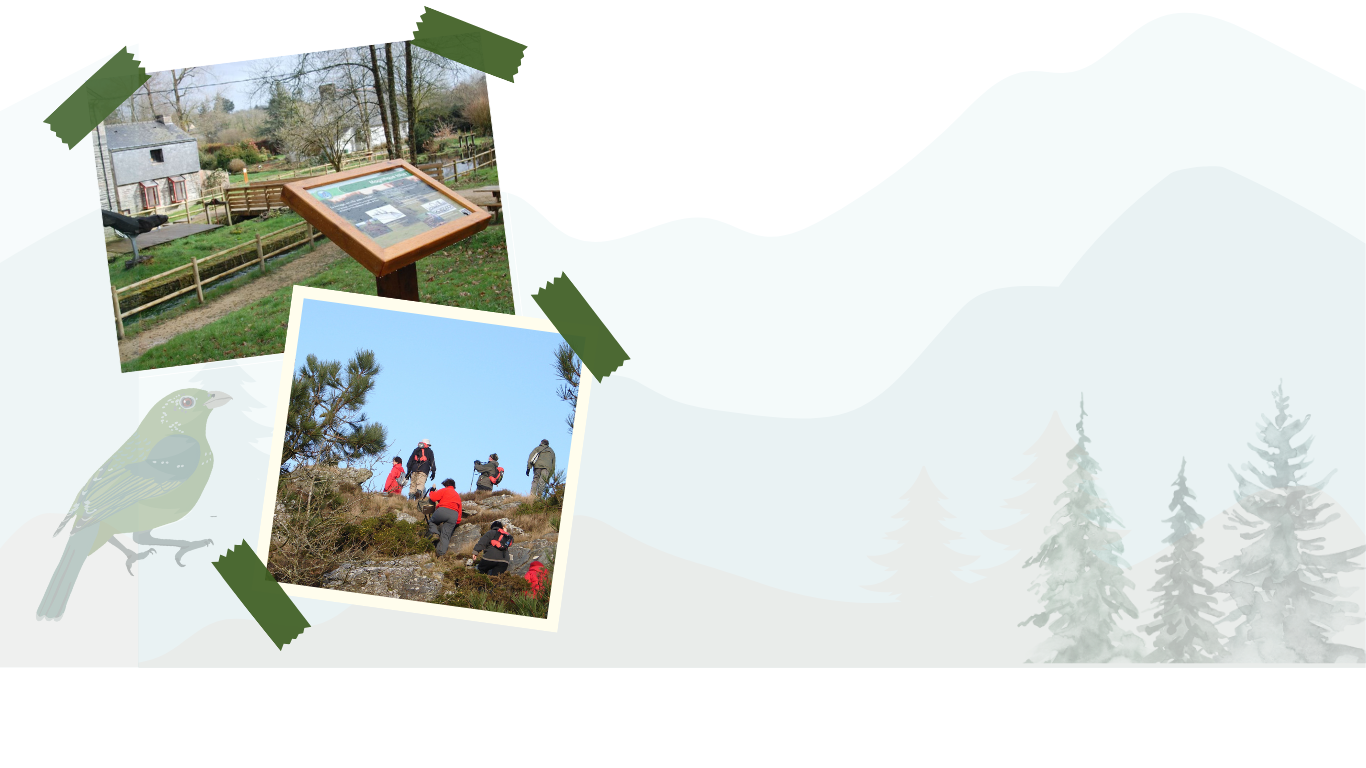
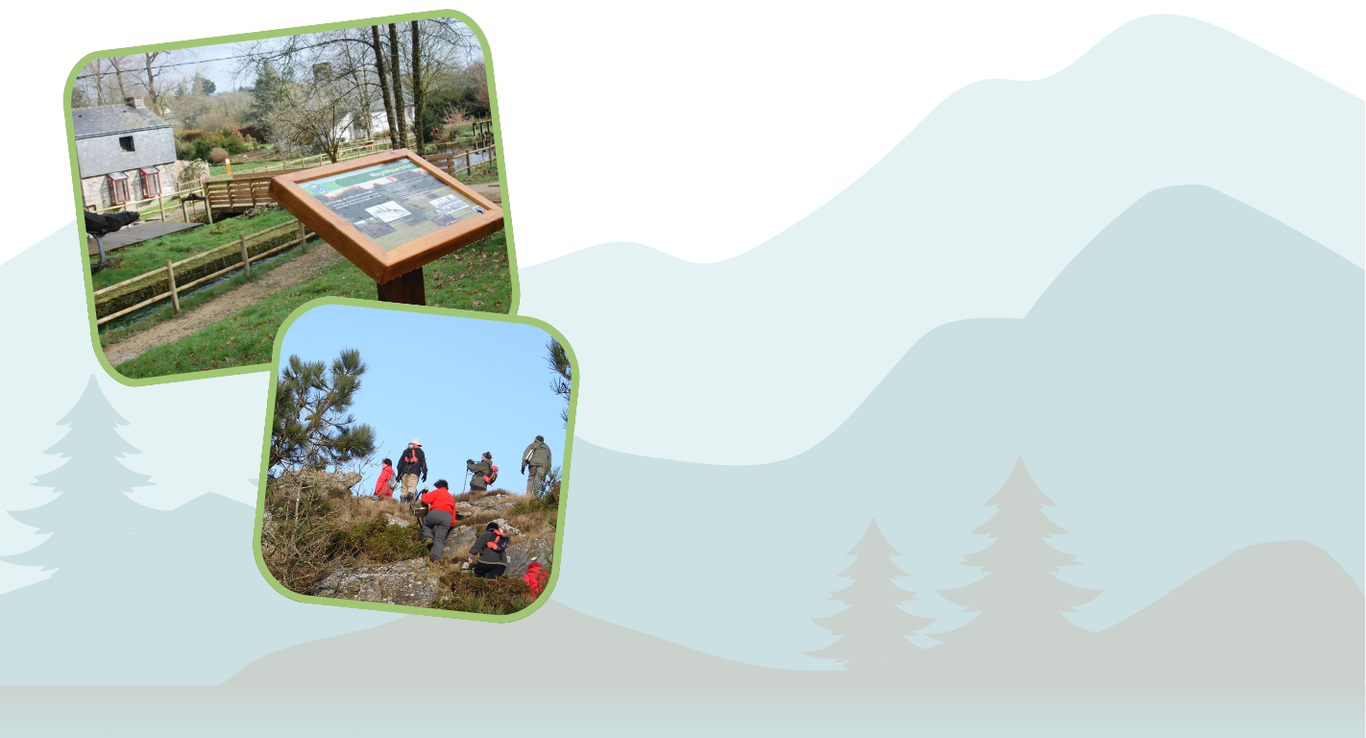
Showoff section and redesign of about(Erwann)

diff --git a/index.html b/index.html
@@ -78,19 +78,49 @@
     <section class="about-section">
         <div class="about-section-container">
             <div class="about-section-content">
-                <h2 class="about-headline">Quand Biodiversité Rime <br> Avec Fun:
-                <span class="fluo">La Maison de la Rivière</span><br> vous ouvre ses portes
+                <h2 class="about-headline">
+                <span class="fluo">La Maison de la Rivière</span><br>vous ouvre ses portes
                 </h2>
                 <p>Située à Sizun, c'est un lieu dédié à la découverte <br>de la nature et des écosystèmes aquatiques. <br>En bordure de l'Élorn, elle offre expositions, <br> animations et sentiers pour explorer <br>la biodiversité locale et comprendre <br>les enjeux environnementaux de la région.</p>
                 <a href="#" class="alternate-btn">En Savoir Plus</a>
             </div>
         </div>
     </section>
+    <section class="showOff-section">
+        <div class="showOff-container">
+            <div class="showOff-content">
+                <p class="showOff-title">Une faune et<br> une flore captivantes.</p>
+                <p class="showOff-subtitle">+20 espèces différentes à découvrir ...</p>
+                <div class="showOff-buttons">
+                    <a href="#" class="btn reserve-btn">Réserver ma visite</a>
+                    <a href="#" class="btn donate-btn">Voir la galerie</a>
+                </div>
+            </div>
+
+            <div class="thumbnail">
+                <div class="item">
+                    <img src="./Images/bee.jpg" alt="bee">
+                </div>
+                <div class="item">
+                    <img src="./Images/frog.jpg" alt="frog">
+                </div>
+                <div class="item">
+                    <img src="./Images/poisson-ovale.jpg" alt="fish">
+                </div>
+                <div class="item">
+                    <img src="./Images/oiseau-vert.jpg" alt="bird">
+                </div>
+            </div>
+            <div class="arrows">
+                <button id="prev"><</button>
+                <button id="next">></button>
+            </div>
+        </div>
+        
+    </section>
     <section class="top-activities-section">
-        <h2 class="about-headline2">Le top des <span style="padding: .3rem 1rem .3rem;   
-            border-radius: 20px;
-            background-color: #036905;
-            color: #DDFF95;">activités</span> <br>à faire sur place :</h2>
+        <h2 class="top-activities-title">Le top des <span style="color: #8da486;">activités</span> <br>à faire sur place:
+        </h2>
         <div class="flex-container">
             <div class="left-column">
                 <div class="activity-card" onclick="displayImage('./Images/aquarium.jpg', this)">
@@ -126,11 +156,14 @@
                 <img id="activity-image" src="Images/aquarium.jpg" alt="Activity Image">
             </div>
         </div>
+        
     </section>
+        
     
       
       
-      <script src="https://kit.fontawesome.com/a076d05399.js" crossorigin="anonymous"></script>
+      <script src="https://kit.fontawesome.com/a076d05399.js" crossorigin="anonymous">
+      </script>
       <script>
         function displayImage(imageSrc, element) {
           document.getElementById("activity-image").src = imageSrc;
@@ -139,6 +172,38 @@
           });
           element.classList.add('active');
         }
+      </script>
+
+      <script>
+        const thumbnail = document.querySelector('.thumbnail');
+const items = Array.from(thumbnail.children); // Collect all .item elements
+const prevButton = document.getElementById('prev');
+const nextButton = document.getElementById('next');
+
+// Function to rotate items forward
+function rotateNext() {
+    const firstItem = items.shift(); // Remove the first item
+    items.push(firstItem); // Add it to the end
+    updateItemsOrder();
+}
+
+// Function to rotate items backward
+function rotatePrev() {
+    const lastItem = items.pop(); // Remove the last item
+    items.unshift(lastItem); // Add it to the front
+    updateItemsOrder();
+}
+
+// Update the DOM to reflect the new order
+function updateItemsOrder() {
+    thumbnail.innerHTML = ''; // Clear all items
+    items.forEach(item => thumbnail.appendChild(item)); // Re-add items in the new order
+}
+
+// Attach event listeners
+nextButton.addEventListener('click', rotateNext);
+prevButton.addEventListener('click', rotatePrev);
+
       </script>
       
       

diff --git a/styles.css b/styles.css
@@ -113,11 +113,31 @@ body {
     width: 100%;
     height: 90vh;
 }
+.showOff-section {
+    overflow-x: hidden;
+    background-color: #cbe0e2;
+    padding: 2rem 0;
+    width: 100%;
+    height: 90vh;
+}
 .top-activities-section {
+    margin-top: 2rem;
     padding: 2rem;
+    position: relative
     
 }
+.top-activities-title {
+    position: absolute;
+    right: 100px;
+    text-align: right;
+    font-size: 3.5rem;
+    color: black;
+    font-weight: 600;
+    line-height: 1.2;
+    margin-bottom: 1rem;
+}
 .flex-container {
+    margin-top: 11rem;
     display: flex;
     gap: 2rem;
   }
@@ -126,7 +146,7 @@ body {
     margin-top: 5rem;
     margin-left: 3rem;
     margin-bottom: 3rem;
-    font-size: 2.3rem;
+    font-size: 2.5rem;
     font-weight: bold;
     text-align: left;
 }  
@@ -210,7 +230,7 @@ body {
     border-radius: 0.8rem;
   }
   
-.hero-container{
+.hero-container {
     height: 100%;
     position: relative;
     display: flex;
@@ -221,15 +241,31 @@ body {
     border-radius: 20px;
     background-image: url('./Images/maison-riviere.jpg');
 }
+.showOff-container {
+    height: 100%;
+    position: relative;
+    display: flex;
+    align-items: center;
+    padding-left: 5%;
+    background-size: cover;
+    margin: 0 1rem 0;
+    border-radius: 20px;
+}
 
-.hero-content {
+.hero-content  {
     position: absolute;
     top: 20%;
 }
+.showOff-content {
+    position: absolute;
+    top: 20%;
+}
+
 .about-section{
+    position: relative;
     margin-top: 5rem;
     width: 100%;
-    height: 105vh;
+    height: 140vh;
 }
 .about-section-container{
     margin-top: 2rem;
@@ -245,29 +281,39 @@ body {
 }
 .about-section-content{
     position:absolute;
-    right: 12%;
+    right: 7%;
     top: 16%;
 }
 .fluo{
-    padding: .3rem 1rem .3rem;   
+    /* padding: .3rem 1rem .3rem;    */
     border-radius: 20px;
-    background-color: #DDFF95;
-    color: #036905;
+    /* background-color: #A1C672; */
+    color: #158416;
 }
 .about-headline{
-    font-size: 2.3rem;
+    font-size: 3.5rem;
+    color: #a6d765;
+    font-weight: 600;
+    line-height: 1.2;
 }
 .about-section-content p {
     margin-top: 2rem;
-    margin-bottom: 3rem;
+    margin-bottom: 4rem;
     font-size: 1.3rem;
     word-spacing: 4px;
     line-height: 1.8rem;
 }
 
-.hero-title {
+.hero-title  {
     font-size: 4.2rem;
     color: white;
+    font-weight: 600;
+    line-height: 1.2;
+    margin-bottom: 1rem;
+}
+.showOff-title {
+    font-size: 3.5rem;
+    color: #115d12;
     font-weight: 600;
     line-height: 1.2;
     margin-bottom: 1rem;
@@ -276,6 +322,11 @@ body {
 .hero-subtitle {
     font-size: 1.5rem;
     color: white;
+    margin-bottom: 2rem;
+}
+.showOff-subtitle {
+    font-size: 1.5rem;
+    color: rgb(128, 164, 134);
     margin-bottom: 2rem;
 }
 
@@ -288,6 +339,11 @@ body {
     margin-top: 3rem;
     display: flex;
     gap: 2rem;
+}
+.showOff-buttons {
+    margin-top: 2rem;
+    display: flex;
+    gap: 1.5rem;
 }
 
 .btn {
@@ -310,11 +366,11 @@ body {
     text-decoration: none;
     font-size: 1rem;
     font-weight: 700;
-    color:#036905;
-    background-color: white;
-    border-style: solid;
+    color:white;
+    background-color: #3E5D22;
+    /* border-style: solid;
     border-color:#036905;
-    border-width: 3px;
+    border-width: 3px; */
 }
 
 
@@ -353,3 +409,55 @@ body {
     margin-right: 5rem;
     vertical-align: middle;
 }
+
+.thumbnail {
+    position: absolute;
+    bottom: 50 px;
+    left: 50%;
+    width: max-content;
+    overflow-x: hidden;
+    z-index: 100;
+    display: flex;
+    gap: 20px;
+}
+.thumbnail .item {
+    width: 250px;
+    height: 250px;
+    flex-shrink: 0;
+
+    
+}
+.thumbnail .item img {
+    width: 100%;
+    height: 100%;
+    object-fit: cover;
+    border-radius: 20px;
+}
+
+.arrows{
+    position: absolute;
+    top: 80%;
+    right: 30%;
+    width: 300px;
+    max-width: 30%;
+    display: flex;
+    gap: 10px;
+    align-items: center;
+}
+.arrows button {
+    width: 40px;
+    height: 40px;
+    border-radius: 50%;
+    background-color: #3e5d22;
+    border: none;
+    font-family: monospace;
+    color: #fff;
+    font-weight: bold;
+    font-size: large;
+    transition: .5s;
+}
+.arrows button:hover {
+    background-color: #8DA486;
+    color: white;
+}
+
